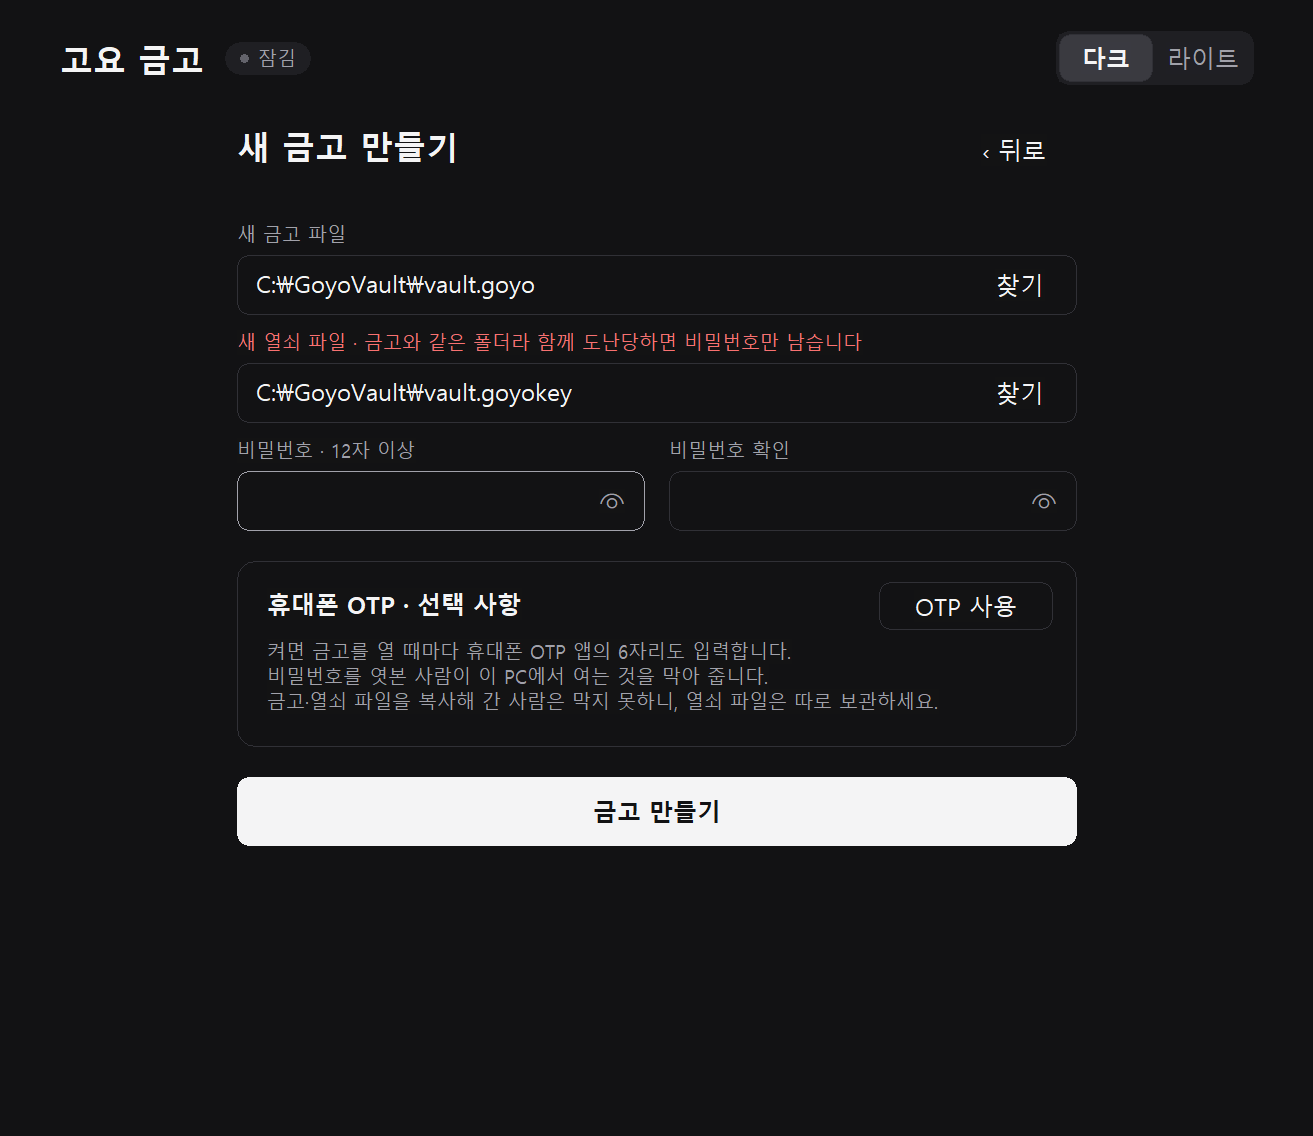
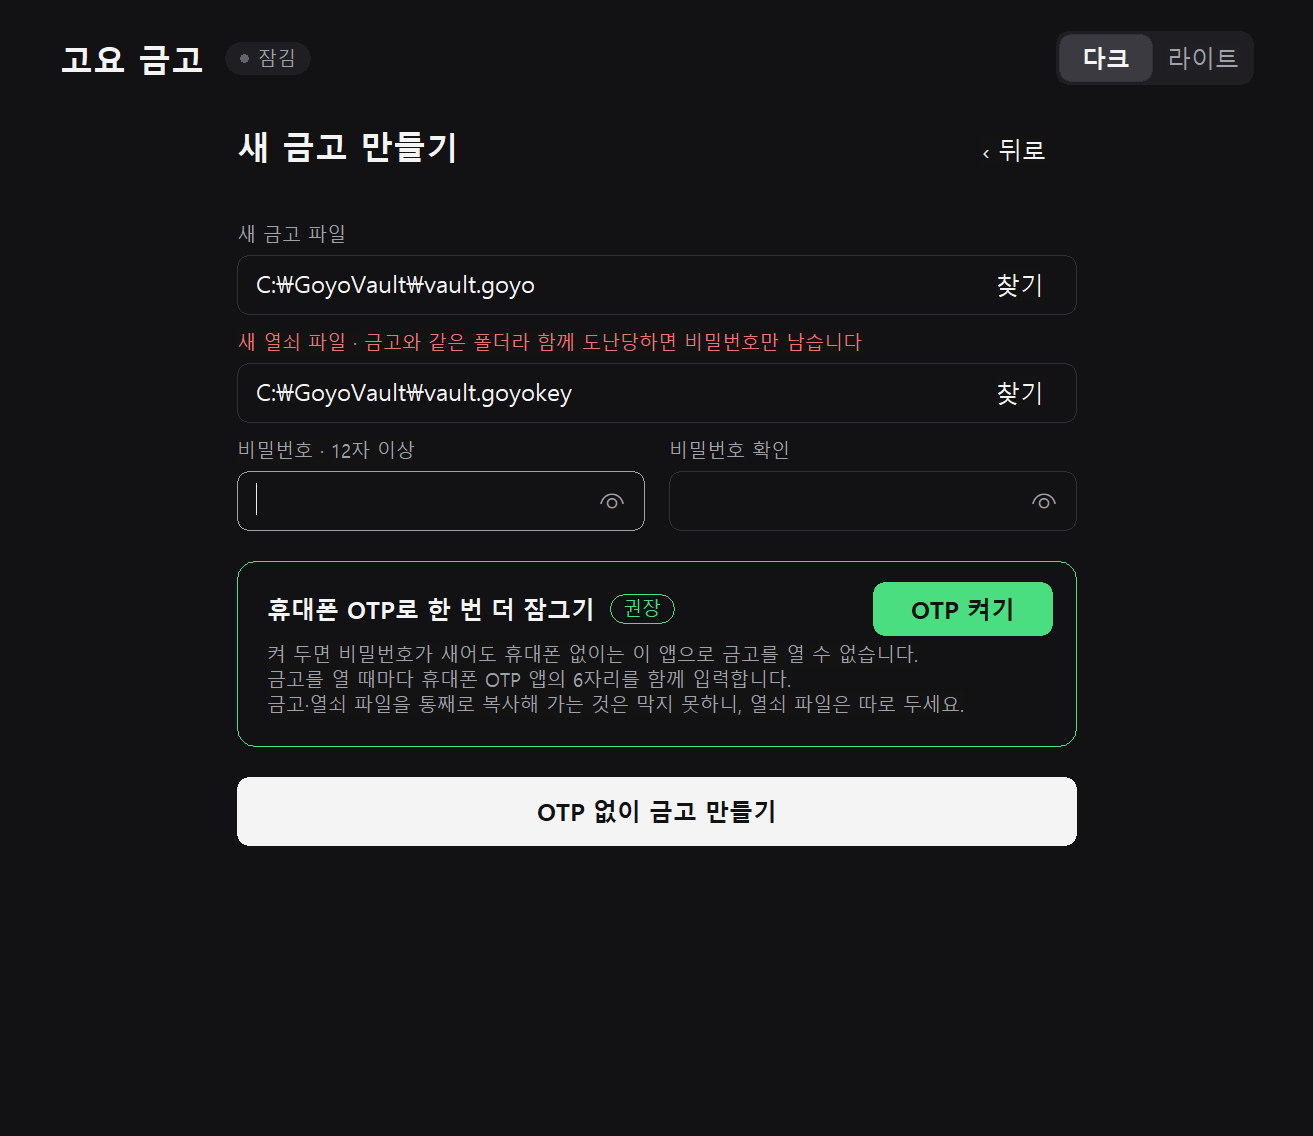
Recommend the phone OTP on the Create screen (0.5.1)
The OTP stays off by default, but the card now offers it as the
recommended choice: a green frame and "권장" badge, a green "OTP 켜기"
button (new ACCENT button style and accent palette colors), and the
create button reads "OTP 없이 금고 만들기" while it is off. As long as
the PC and files stay out of other hands, the OTP does stop a leaked
password. No change to security behaviour or file formats.

Changed region(s): [[0.1874, 0.493, 0.8119, 0.647], [0.4059, 0.7086, 0.5933, 0.7394]]

diff --git a/src/main.rs b/src/main.rs
@@ -103,7 +103,7 @@ const CARD_W: i32 = 464;
 const HINT: (i32, i32, i32, i32) = (CARD_X, 372, CARD_W, 40);
 /// Dark/light segmented switch in the top-right corner of every screen.
 const THEME_SWITCH: (i32, i32, i32, i32) = (704, 21, 132, 36);
-/// Create with the OTP off: the painted card that offers it.
+/// Create with the OTP off: the painted card that recommends it.
 const CREATE_OTP_CARD: (i32, i32, i32, i32) = (AX, 374, AW, 124);
 /// Divider above the "새 금고 만들기 · 백업에서 복원" links on Login.
 const LOGIN_LINKS: (i32, i32, i32, i32) = (AX, 500, AW, 1);
@@ -921,36 +921,28 @@ impl App {
                     theme::PRIMARY,
                 );
             } else {
-                // The OTP is optional; the card (painted frame) says what it adds.
+                // Off by default but recommended: the card's frame, heading
+                // and "권장" badge are painted (see draw_otp_offer).
                 let (cx, cy, cw, ch) = CREATE_OTP_CARD;
-                let strong = self.font_of(|t| t.strong);
-                self.text(
-                    0,
-                    "휴대폰 OTP · 선택 사항",
-                    (cx + 20, cy + 18, cw - 180, 22),
-                    strong,
-                    TONE_TEXT,
-                    0,
-                );
                 self.button(
                     OTP_TOGGLE,
-                    "OTP 사용",
-                    cx + cw - 132,
+                    "OTP 켜기",
+                    cx + cw - 136,
                     cy + 14,
-                    116,
-                    32,
-                    theme::SECONDARY,
+                    120,
+                    36,
+                    theme::ACCENT,
                 );
                 self.note(
-                    "켜면 금고를 열 때마다 휴대폰 OTP 앱의 6자리도 입력합니다.\r\n비밀번호를 엿본 사람이 이 PC에서 여는 것을 막아 줍니다.\r\n금고·열쇠 파일을 복사해 간 사람은 막지 못하니, 열쇠 파일은 따로 보관하세요.",
+                    "켜 두면 비밀번호가 새어도 휴대폰 없이는 이 앱으로 금고를 열 수 없습니다.\r\n금고를 열 때마다 휴대폰 OTP 앱의 6자리를 함께 입력합니다.\r\n금고·열쇠 파일을 통째로 복사해 가는 것은 막지 못하니, 열쇠 파일은 따로 두세요.",
                     cx + 20,
-                    cy + 52,
+                    cy + 54,
                     cw - 40,
                     60,
                 );
                 self.button(
                     SUBMIT,
-                    "금고 만들기",
+                    "OTP 없이 금고 만들기",
                     AX,
                     cy + ch + 20,
                     AW,
@@ -1726,7 +1718,7 @@ impl App {
                 self.status = if self.create_otp {
                     "휴대폰 OTP 앱으로 QR을 등록하고, 앱에 표시된 6자리를 입력하세요."
                 } else {
-                    "OTP 없이 비밀번호와 열쇠 파일로 여는 금고를 만듭니다."
+                    "OTP 없이 비밀번호와 열쇠 파일로만 여는 금고를 만듭니다. 이 PC를 다른 사람도 쓸 수 있다면 OTP를 켜 두세요."
                 }
                 .into();
                 // Same OTP secret either way, so a QR already scanned stays valid.
@@ -2153,16 +2145,7 @@ impl App {
                     let card = self.r(AX, self.password_card_y(), AW, 80);
                     theme::round(dc, &card, self.px(10), Some(p.bg), Some(p.border));
                 }
-                Screen::Create if !self.create_otp => {
-                    let (x, y, w, h) = CREATE_OTP_CARD;
-                    theme::round(
-                        dc,
-                        &self.r(x, y, w, h),
-                        self.px(12),
-                        Some(p.bg),
-                        Some(p.border),
-                    );
-                }
+                Screen::Create if !self.create_otp => self.draw_otp_offer(dc, &p, small),
                 _ => {}
             }
             let focus = GetFocus();
@@ -2193,6 +2176,41 @@ impl App {
             if self.screen == Screen::Vault {
                 self.draw_detail(dc, small, title);
             }
+        }
+    }
+    /// Create with the OTP off: an accent frame, the heading and a "권장"
+    /// badge, painted so the badge can sit right after the heading.
+    unsafe fn draw_otp_offer(&self, dc: isize, p: &theme::Palette, small: isize) {
+        let Some(strong) = theme::with(|t| t.strong) else {
+            return;
+        };
+        let (x, y, w, h) = CREATE_OTP_CARD;
+        unsafe {
+            theme::round(
+                dc,
+                &self.r(x, y, w, h),
+                self.px(12),
+                Some(p.bg),
+                Some(p.accent),
+            );
+            let heading = "휴대폰 OTP로 한 번 더 잠그기";
+            theme::text(
+                dc,
+                heading,
+                &self.r(x + 20, y + 20, w - 180, 24),
+                strong,
+                p.text,
+                LINE,
+            );
+            let left = self.px(x + 20) + theme::text_width(dc, heading, strong) + self.px(10);
+            let badge = Rect {
+                left,
+                top: self.px(y + 22),
+                right: left + theme::text_width(dc, "권장", small) + self.px(18),
+                bottom: self.px(y + 42),
+            };
+            theme::round(dc, &badge, self.px(10), None, Some(p.accent));
+            theme::text(dc, "권장", &badge, small, p.accent, DT_CENTER | LINE);
         }
     }
     /// While another app is in front the card shows no QR and no key.
@@ -2307,7 +2325,7 @@ impl App {
                 ("금고 파일", "암호화된 항목\n(.goyo)"),
                 ("열쇠 파일", "금고와 따로 보관\n(.goyokey)"),
                 ("비밀번호", "12자 이상의\n긴 문장"),
-                ("휴대폰 OTP", "선택 사항\n켠 금고만 필요"),
+                ("휴대폰 OTP", "켜기 권장\n켠 금고만 필요"),
             ]
             .into_iter()
             .enumerate()
@@ -3466,6 +3484,11 @@ mod tests {
             app.command(CREATE, 0).unwrap();
             assert!(app.screen == Screen::Create && !app.create_otp);
             assert_eq!(app.handle(OTP), 0);
+            // Off, but offered as the recommended choice.
+            assert_eq!(
+                GetWindowLongPtrW(app.handle(OTP_TOGGLE), -21),
+                theme::ACCENT
+            );
             let code = app.provision.as_ref().unwrap().setup_code();
             for id in [PASS, CONFIRM] {
                 SetWindowTextW(app.handle(id), wide(pass).as_ptr());

diff --git a/src/theme.rs b/src/theme.rs
@@ -25,6 +25,9 @@ pub struct Palette {
     pub knob: u32,
     pub danger: u32,
     pub unlocked: u32,
+    /// Recommended option (e.g. turning on the OTP); text on it uses `bg`.
+    pub accent: u32,
+    pub accent_pressed: u32,
 }
 pub const LIGHT: Palette = Palette {
     bg: rgb(255, 255, 255),
@@ -40,6 +43,8 @@ pub const LIGHT: Palette = Palette {
     knob: rgb(255, 255, 255),
     danger: rgb(185, 28, 28),
     unlocked: rgb(22, 163, 74),
+    accent: rgb(21, 128, 61),
+    accent_pressed: rgb(22, 101, 52),
 };
 pub const DARK: Palette = Palette {
     bg: rgb(18, 18, 20),
@@ -55,6 +60,8 @@ pub const DARK: Palette = Palette {
     knob: rgb(212, 212, 216),
     danger: rgb(248, 113, 113),
     unlocked: rgb(74, 222, 128),
+    accent: rgb(74, 222, 128),
+    accent_pressed: rgb(34, 197, 94),
 };
 
 // Owner-drawn button variants, stored in the button's GWLP_USERDATA.
@@ -72,6 +79,8 @@ pub const LINK: isize = 10;
 /// Password reveal toggle: eye while masked, struck-through eye while shown.
 pub const EYE: isize = 11;
 pub const EYE_ON: isize = 12;
+/// Filled green button for the recommended choice.
+pub const ACCENT: isize = 13;
 // Static label tones, stored the same way.
 pub const TONE_TEXT: isize = 0;
 pub const TONE_MUTED: isize = 1;
@@ -312,6 +321,17 @@ unsafe fn draw_button(t: &Theme, d: &DrawItem) {
                 round(d.dc, &r, radius, Some(c), None);
                 (p.bg, t.strong)
             }
+            ACCENT => {
+                let c = if disabled {
+                    p.track
+                } else if pressed {
+                    p.accent_pressed
+                } else {
+                    p.accent
+                };
+                round(d.dc, &r, radius, Some(c), None);
+                (p.bg, t.strong)
+            }
             SECONDARY => {
                 round(
                     d.dc,
@@ -403,7 +423,11 @@ unsafe fn draw_button(t: &Theme, d: &DrawItem) {
         };
         text(d.dc, &label, &text_rect, font, color, flags);
         if focus {
-            let ring = if variant == PRIMARY { p.bg } else { p.focus };
+            let ring = if matches!(variant, PRIMARY | ACCENT) {
+                p.bg
+            } else {
+                p.focus
+            };
             round(
                 d.dc,
                 &inset(&r, t.px(3), t.px(3)),

diff --git a/README.en.md b/README.en.md
@@ -14,7 +14,7 @@
 ## What it does
 
 - **Fully offline:** no network code, no server, account, sync or auto-update.
-- **Opening a vault takes** the vault file (`.goyo`), a separate key file (`.goyokey`) and your password. You can add a phone OTP if you want (off by default). Only the two files and the password take part in decryption, so **to someone holding both files, the password is the only barrier**. Keep the key file somewhere else.
+- **Opening a vault takes** the vault file (`.goyo`), a separate key file (`.goyokey`) and your password. A phone OTP is off by default, but **turning it on is recommended.** Only the two files and the password take part in decryption, so **to someone holding both files, the password is the only barrier**. Keep the key file somewhere else.
 - **Secrets stay hidden by default:** show for 15 seconds, copy only after you allow it, and the clipboard is wiped 15 seconds after a copy.
 - **Auto-lock** of an open vault after 60 seconds idle (2 minutes on the OTP backup screen), after 30 seconds in another app, when you lock the screen, the PC sleeps or Windows shuts down.
 - **Screen-capture protection:** the window is excluded from the capture paths Windows supports (ordinary screenshots and screen recordings).
@@ -64,15 +64,15 @@ Switch between **Dark (다크)** and **Light (라이트)** in the top-right corn
 
 1. Choose where the **new vault file (새 금고 파일)** and **new key file (새 열쇠 파일)** go. Both default to the program folder, so the key caption warns in red. **Pick another place for the key, such as a USB drive, with Browse (찾기).** In the same folder, anyone who copies the folder only has to guess the password. The app remembers the last vault and key it opened (`goyo-vault.paths`), so a key on a USB drive does not need browsing every time.
 2. Enter a **password** twice. It needs at least 12 characters; repeated characters and passwords made only of common words, keyboard walks or number runs (`password1234`, `qwerty123456`, `1q2w3e4r5t6y`) are refused. For seed phrases or private keys use **4–6 unrelated words**. Words from common-password lists such as `dragon` or `sunshine` do not count, so pick uncommon ones. The check only filters the obvious; passing it does not make a password safe. If the key file is stolen, a common password falls to one GPU within a day; four random words are out of reach. Press the eye icon at the right of the field to check what you typed for typos; press it again to hide it.
-3. The **phone OTP (휴대폰 OTP)** is optional and off by default. Press **Create vault (금고 만들기)** and you are done.
+3. Decide on the OTP in the green **phone OTP (휴대폰 OTP)** card. It is off by default, but **turning it on is recommended.** To skip it, press **Create without OTP (OTP 없이 금고 만들기)** and you are done.
 
-#### Turning on the OTP
+#### Turning on the OTP (recommended)
 
 ![Create a vault with the OTP on](docs/images/create-otp.png)
 
-With the OTP on, opening the vault also asks for the 6-digit code from your phone's OTP app. That stops someone who saw your password from opening the vault with this app on this PC, but not someone who copied the vault and key files (see [Please read](#please-read)). Losing the phone without an OTP backup locks you out, so turn it on only if that risk is worth it to you. **The choice is made when the vault is created and cannot be changed later.**
+With the OTP on, opening the vault also asks for the 6-digit code from your phone's OTP app. If your password leaks (someone looks over your shoulder, or you reused it on a site that was breached), it still cannot open the vault with this app without your phone. **As long as this PC and the vault and key files stay out of other hands, the OTP helps a lot.** It does not stop someone who copied both files (see [Please read](#please-read)). Losing the phone without an OTP backup locks you out, so if you turn it on, also do the **OTP backup** (step 8 below) after creating the vault. **The choice is made when the vault is created and cannot be changed later.**
 
-1. Press **Use OTP (OTP 사용)** to show the QR. The passwords you typed stay; **Turn off OTP (OTP 끄기)** switches back.
+1. Press **Turn on OTP (OTP 켜기)** to show the QR. The passwords you typed stay; **Turn off OTP (OTP 끄기)** switches back.
 2. In Google Authenticator tap **+ → Scan a QR code** and point it at the QR on screen. Each vault gets its own entry name, such as `Goyo Vault (3FA2-C1D0)`; the same name appears above the OTP field when you open the vault, so with several vaults you can pick the right code. While you are in another app the QR and key are hidden, and **Back (뒤로)** keeps the same QR when you return. If scanning does not work, choose **Enter a setup key** and type the key shown next to the QR (type: **Time based**). The QR and key in the screenshot are fake examples.
 3. Enter the **6-digit code** from the app and press **Confirm and create (등록 확인 · 금고 만들기)**.
 
@@ -156,7 +156,7 @@ Choose dark or light in the top-right corner. The choice is stored as just `dark
 - **Keep the key file separate. This matters most.** With vault and key in the same folder (the default) or in the same cloud account, whoever takes both only has to keep guessing the password, without any OTP. The app warns about such placements in red.
 - **There is no recovery.** Lose the vault file, the key file or the password (or the OTP, if you turned it on) and this app cannot open the vault. There is no way around it. With the OTP on, prepare for a lost phone with **OTP backup**.
 - **Do not delete `.goyotmp` files carelessly.** If power fails or a USB stick is pulled during a save, a temporary file such as `vault.goyo.<digits>.goyotmp` may be all that is left. It can be the only copy; rename it back. The app points this out when the main file is missing.
-- **The OTP is an extra check inside this app, so it is off by default.** An OTP code changes every 30 seconds and cannot serve as an encryption key, and to check codes the app has to keep the same OTP secret as your phone in the key file. So someone with both files and your password can decrypt the vault without the OTP. What the OTP stops is someone who knows your password opening the vault with this app on this PC. The real extra protection against stolen files is keeping the key file elsewhere.
+- **The OTP is an extra check inside this app.** It is off by default because of the lost-phone risk, but turning it on is recommended. An OTP code changes every 30 seconds and cannot serve as an encryption key, and to check codes the app has to keep the same OTP secret as your phone in the key file. So someone with both files and your password can decrypt the vault without the OTP. What the OTP stops is someone who knows your password opening the vault with this app on this PC. The real extra protection against stolen files is keeping the key file elsewhere.
 - **Changing the password does not revoke old key copies.** An old key copy plus the old password still opens later versions of the vault. If you suspect a leak, destroy old copies yourself.
 - **Anything you copy can be read by other programs.** Copy only when needed. When you paste into a password or secret field, the app clears the clipboard right away, but it cannot erase what the source app left behind (for example in Win+V history).
 - **It cannot protect an infected PC.** A keylogger records the password, and malware running as you can copy the vault and key or replace the program. Malware with administrator rights, kernel attacks and a camera pointed at the screen are also out of reach. Use a hardware wallet for large holdings.

diff --git a/docs/SECURITY_REVIEW.md b/docs/SECURITY_REVIEW.md
@@ -216,6 +216,7 @@
 - '찾기'로 열쇠 파일을 고르면 OTP 칸을 그에 맞게 다시 그립니다(입력한 비밀번호 유지). 경로를 직접 입력해 OTP 금고를 고른 경우, 첫 제출에서 OTP 칸을 추가하고 입력을 요청하며 인증 실패로 세지 않습니다.
 - OTP 미사용 금고에는 'OTP 백업' 버튼이 없고(명령도 거부), 비밀번호 변경에 OTP 칸이 없습니다.
 - OTP 미사용 금고는 잠금 해제만으로는 금고 파일을 다시 쓰지 않습니다. 기록할 OTP step이 없기 때문입니다. 복원은 기존대로 새 파일에 씁니다.
+- 0.5.1: 기본값은 그대로 꺼짐이지만, OTP 카드를 초록 테두리·'권장' 표시·초록 'OTP 켜기' 버튼으로 눈에 띄게 하고, 끈 채로 만드는 버튼은 'OTP 없이 금고 만들기'로 표시합니다. 이 PC와 파일이 남의 손에 들어가지 않는 한 OTP는 비밀번호 유출을 실제로 막아 주기 때문입니다. 보안 동작과 파일 형식은 바뀌지 않았습니다.
 - '찾기'로 경로를 바꾼 뒤 열쇠 칸의 위치 경고가 갱신되지 않던 문제(변경 알림이 상태 사용 중에 도착해 버려짐)도 함께 고쳤습니다.
 
 **확인.**
